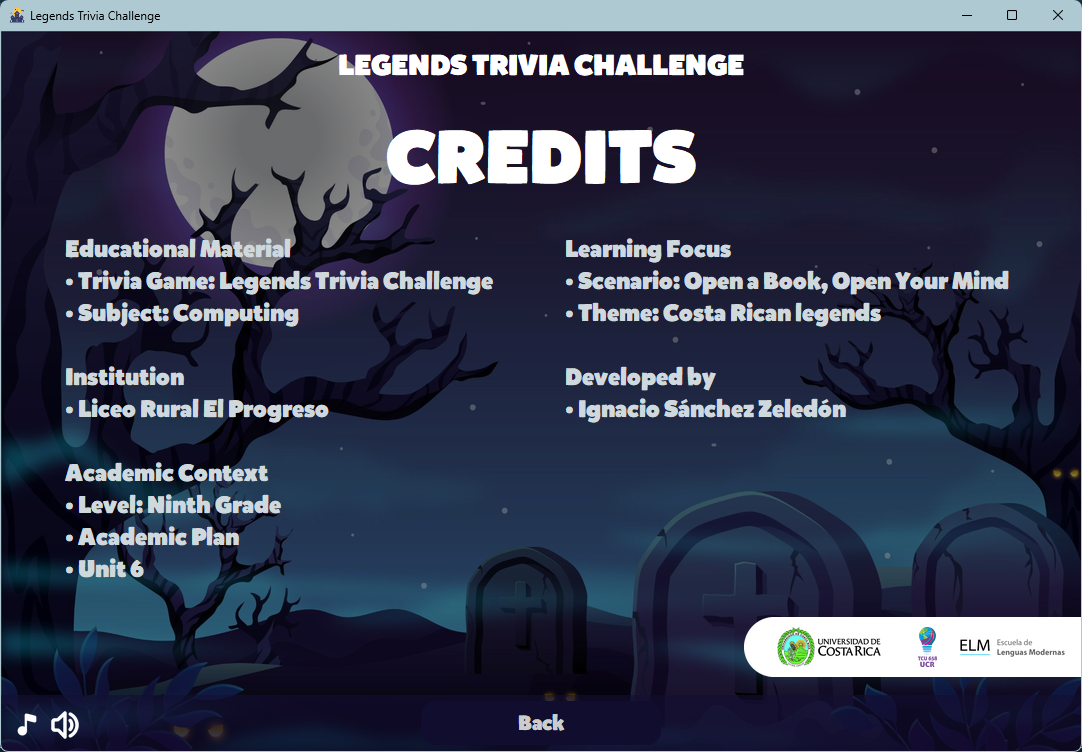
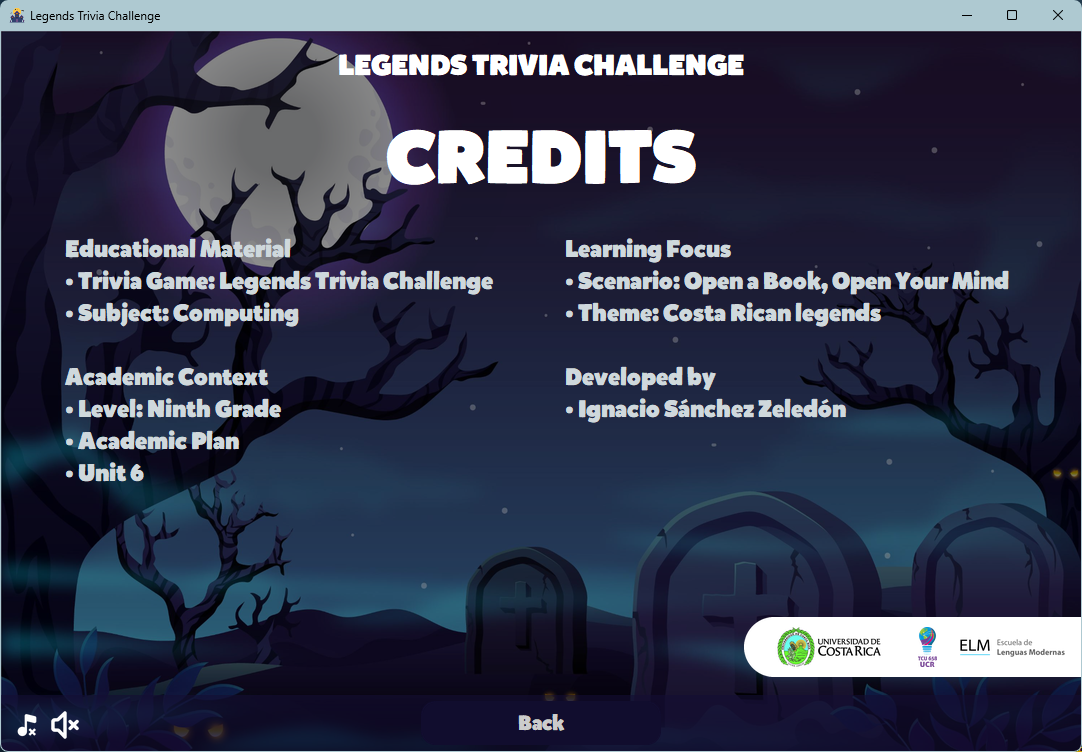
Revision Changes

Changed region(s): [[0.061, 0.4894, 0.305, 0.7646], [0.061, 0.9481, 0.0915, 0.9787], [0.0, 0.9481, 0.0305, 0.9787]]

diff --git a/views/how_to_play_view.py b/views/how_to_play_view.py
@@ -174,19 +174,19 @@ class HowToPlayView(ttk.Frame):
         return [
           {
               "top": "Main Menu\n\n"
-                    "Use the buttons to navigate:\n"
-                    "• Play: start the game\n"
-                    "• How to Play: open this guide\n"
-                    "• Credits: project information\n"
-                    "• Exit: close the game",
+                    "Use the buttons to navigate:\n\n"
+                    "• Play: Start the game\n"
+                    "• How to Play: Open this guide\n"
+                    "• Credits: Project information\n"
+                    "• Exit: Close the game",
               "image": assets_path("images", "menu.png"),
               "bottom": "Tip: If audio is distracting, use the icons at the bottom-left to mute music or sound effects."
           },
           {
               "top": "Credits Screen\n\n"
-                    "This section shows the academic context, institution, learning focus, and developer information.",
+                    "This section shows the academic plan from the MEP context, learning focus, and developer information.",
               "image": assets_path("images", "credits.png"),
-              "bottom": "Use Back to return to the main menu."
+              "bottom": "Use the Back button to return to the main menu."
           },
           {
               "top": "Select Level\n\n"
@@ -198,7 +198,7 @@ class HowToPlayView(ttk.Frame):
           {
               "top": "Gameplay Basics\n\n"
                     "Each level contains multiple questions.\n"
-                    "Read the question and click one of the four answers.",
+                    "Read each question and click on the corresponding answer out of the four given options.",
               "image": assets_path("images", "question.png"),
               "bottom": "The top bar shows:\n• Level name\n• Question number (e.g., 1/5)"
           },
@@ -206,7 +206,7 @@ class HowToPlayView(ttk.Frame):
               "top": "Correct Answer Feedback\n\n"
                     "When you choose correctly, the question is marked as correct and you can continue.",
               "image": assets_path("images", "correct_answer.png"),
-              "bottom": "Use Next to move to the next question."
+              "bottom": "Use the Next button to move to the next question."
           },
           {
               "top": "Wrong Answer Feedback\n\n"
@@ -216,18 +216,18 @@ class HowToPlayView(ttk.Frame):
           },
           {
               "top": "Navigation and Audio Controls\n\n"
-                    "Bottom controls:\n"
-                    "• Back / Next: move through the level questions\n"
-                    "• Music icon: toggle background music\n"
-                    "• Speaker icon: toggle sound effects",
+                    "Bottom controls:\n\n"
+                    "• Back / Next: Move through the level questions\n"
+                    "• Music icon: Toggle background music\n"
+                    "• Speaker icon: Toggle sound effects",
               "image": assets_path("images", "sounds.png"),
-              "bottom": "Shortcuts:\n• Press M to toggle music\n• Press S to toggle sound effects"
+              "bottom": "Shortcuts:\n\n• Press M to toggle music\n• Press S to toggle sound effects"
           },
           {
               "top": "Level Complete\n\n"
                     "After answering all questions, you will see your results:\n"
                     "• Score\n"
-                    "• Stars earned",
+                    "• Stars Earned",
               "image": assets_path("images", "level_complete.png"),
               "bottom": "Options:\n• Retry\n• Select Level\n• Next Level (if unlocked)"
           },
@@ -235,7 +235,7 @@ class HowToPlayView(ttk.Frame):
               "top": "Congratulations Screen\n\n"
                     "When you finish all levels, the game shows a final message recognizing your progress.",
               "image": assets_path("images", "congratulations.png"),
-              "bottom": "From here you can return to Levels or go back to the Main Menu."
+              "bottom": "From here, you can return to Levels or go back to the Main Menu."
           },
       ]
 

diff --git a/views/congratulations_view.py b/views/congratulations_view.py
@@ -66,7 +66,7 @@ class CongratulationsView(ttk.Frame):
         sound_manager=None,
         sfx_manager=None,
         title="CONGRATULATIONS!",
-        subtitle="YOU FINISHED ALL LEVELS",
+        subtitle="YOU COMPLETED ALL LEVELS!",
         paragraph=None,
     ):
         super().__init__(parent)
@@ -79,7 +79,7 @@ class CongratulationsView(ttk.Frame):
         self._title = title
         self._subtitle = subtitle
         self._paragraph = paragraph or (
-            "You’ve explored Costa Rica’s legends while practicing real English in context. "
+            "You have explored Costa Rica’s legends while practicing real English in context. "
             "Each question helped you build vocabulary, improve comprehension, and connect language "
             "with culture—just like learning is supposed to feel: memorable and meaningful."
         )

diff --git a/views/credits_view.py b/views/credits_view.py
@@ -89,9 +89,6 @@ class CreditsView(ttk.Frame):
                 "• Trivia Game: Legends Trivia Challenge",
                 "• Subject: Computing",
                 "",
-                "Institution",
-                "• Liceo Rural El Progreso",
-                "",
                 "Academic Context",
                 "• Level: Ninth Grade",
                 "• Academic Plan",

diff --git a/app.py b/app.py
@@ -23,7 +23,6 @@ from views.congratulations_view import CongratulationsView
 from views.credits_view import CreditsView
 from views.how_to_play_view import HowToPlayView
 
-
 from utils.audio import MusicManager, SfxManager
 
 
